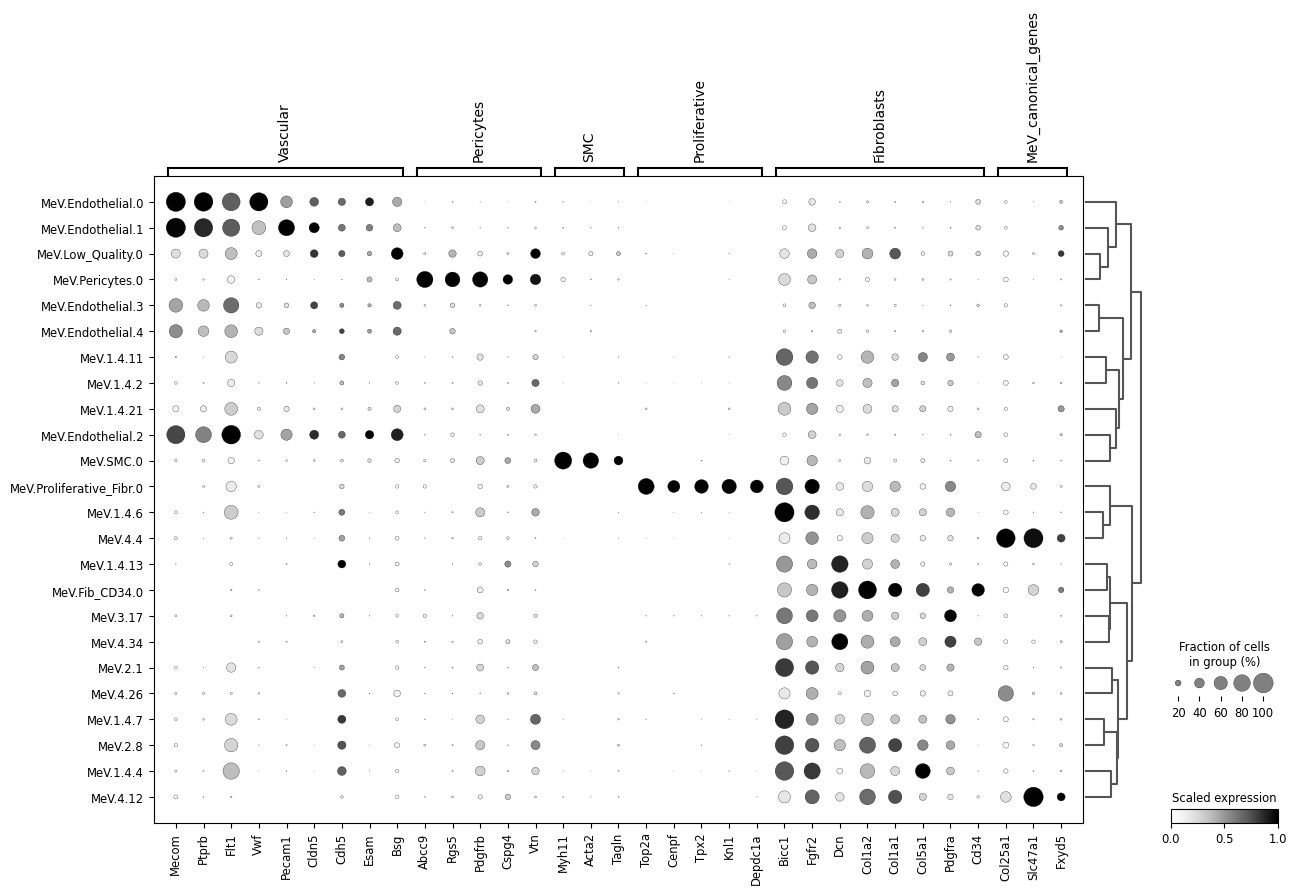
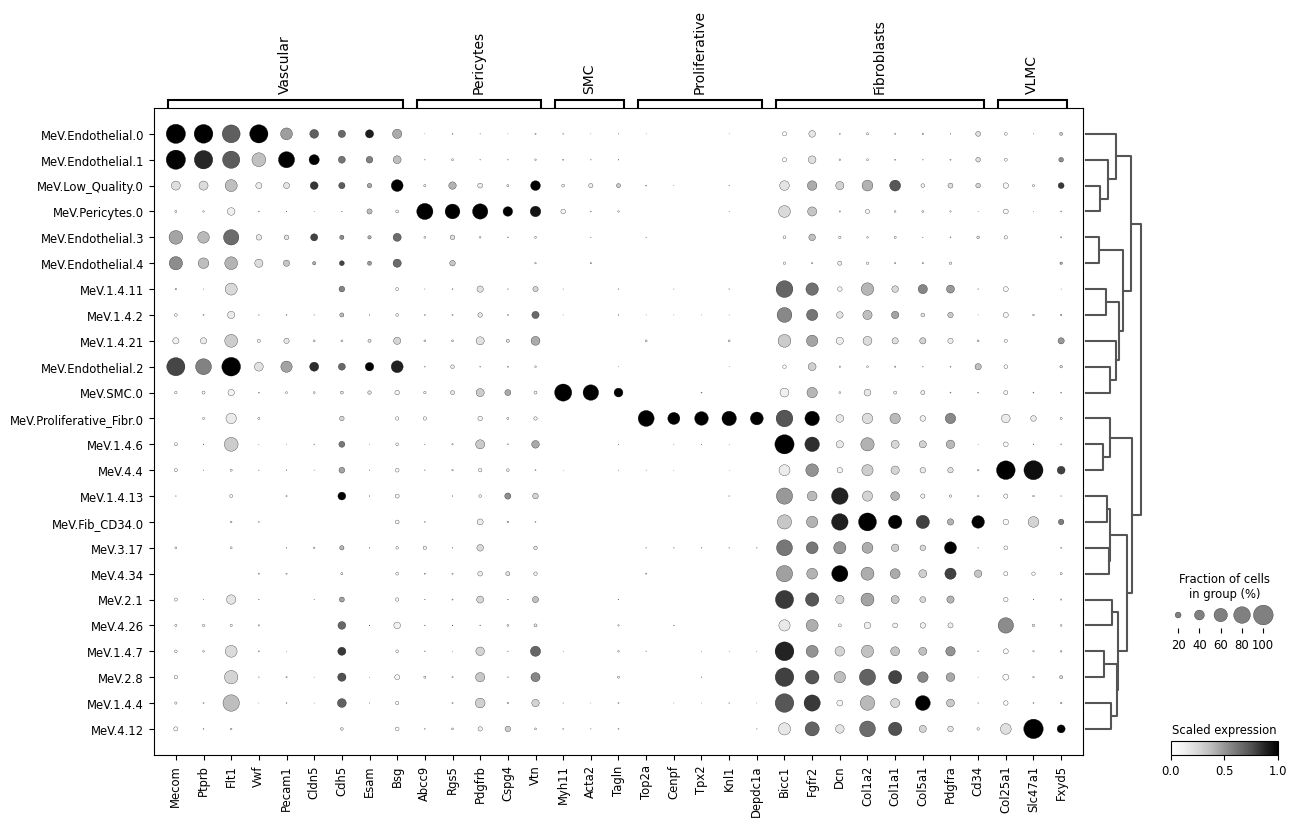
update meningeal canocial

diff --git a/src/scripts/scripts_meningeal/meningeal_canonical.py b/src/scripts/scripts_meningeal/meningeal_canonical.py
@@ -119,7 +119,7 @@ def create_dotplots_with_thresholds(adata, genes, thresholds, cluster_order, out
         user_gene_group_order = []
 
         # Example user-defined gene group order
-        user_gene_group_order = ["Vascular", "Pericytes", "SMC", "Proliferative", "Fibroblasts", "MeV_canonical_genes"]
+        user_gene_group_order = ["Vascular", "Pericytes", "SMC", "Proliferative", "Fibroblasts", "VLMC"]
 
         # Reorder the dictionary based on user order
         top_genes_names = {key: top_genes_names[key] for key in user_gene_group_order}
